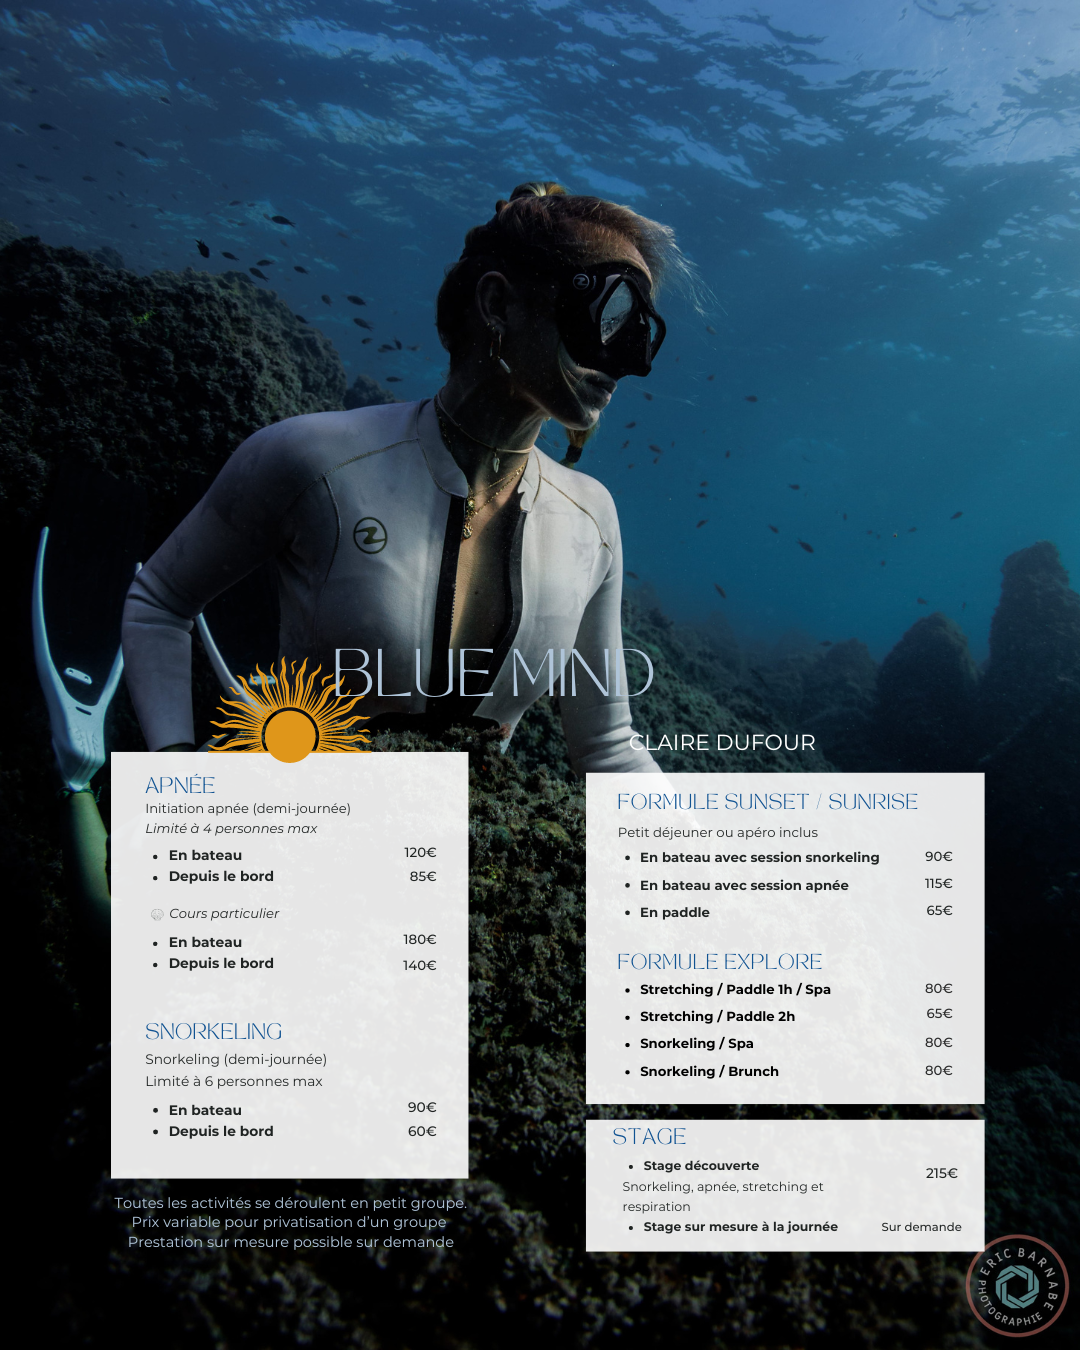
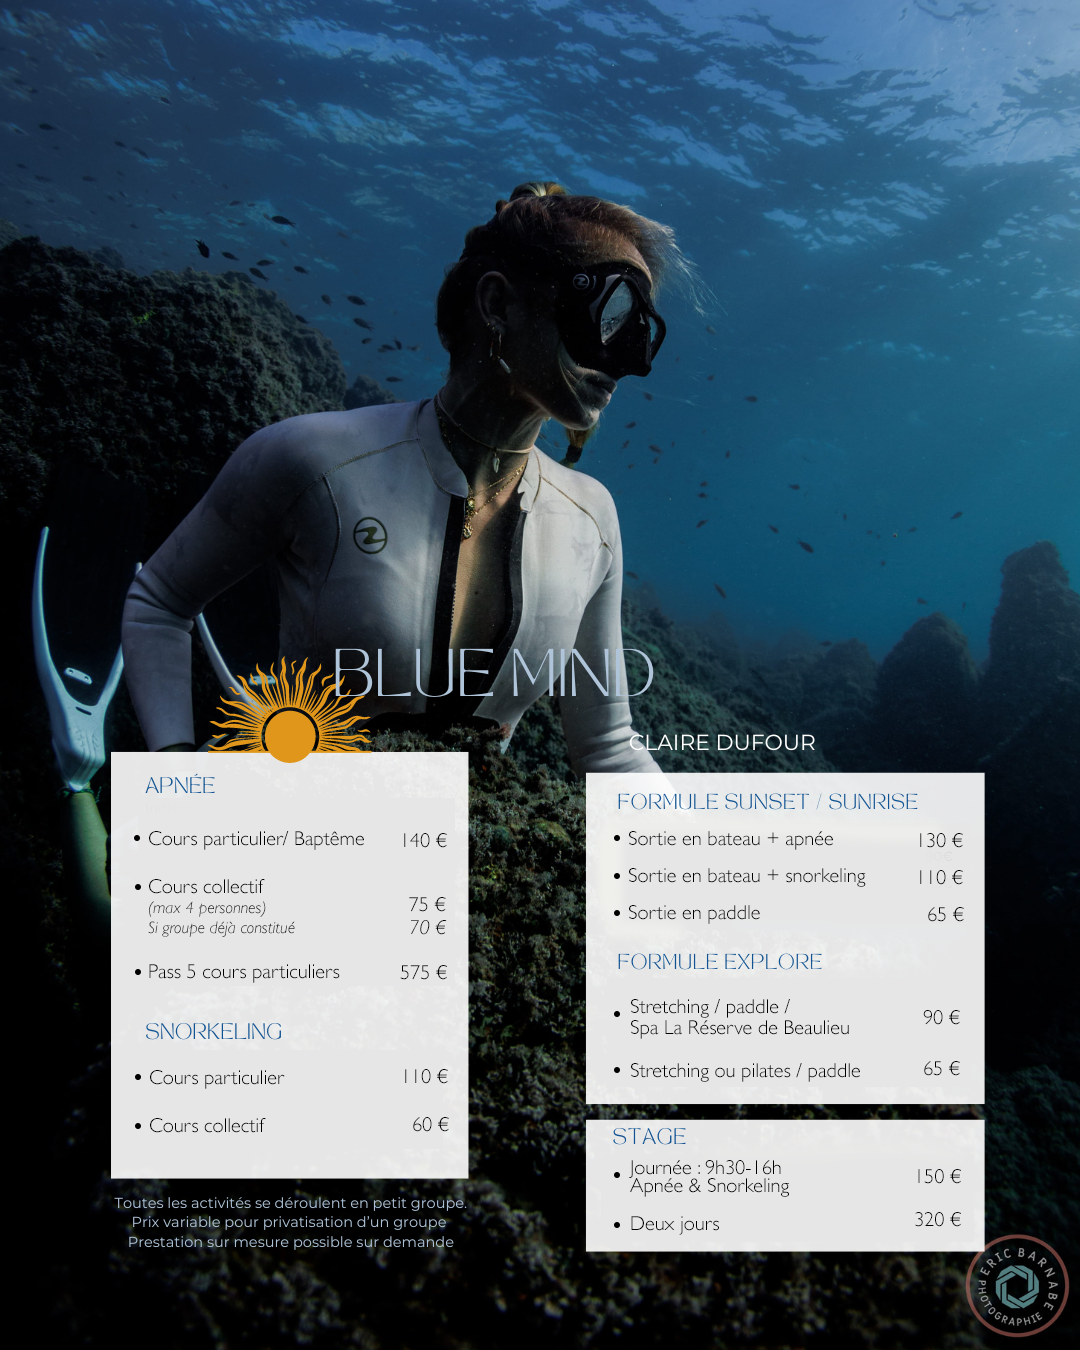
update imgs and retours en tarifs

diff --git a/index.html b/index.html
@@ -35,7 +35,7 @@
 							<li class="active"><a >Blue Mind</a></li>
 							<li><a>À propos</a></li>
 							<li><a>Activités</a></li>
-							<li><a>Retours</a></li>
+							<li><a>Tarifs</a></li>
 							<li><a>Contact</a></li>
 						</ul>
 						<ul class="icons">
@@ -250,87 +250,16 @@ C’est sur la douceur, le calme et la découverte de la vie sous marine qu’el
 			</div>
 			</div>
             </section>
-        `,"Retours": `
-
+        `,"Tarifs": `
 
 				<div class="responsive-container-block big-container">
 		  <div class="responsive-container-block bg">
 		    <p class="text-blk title">
-		      Vos retours comptent!<br><br>
+		      Retrouvez tous nos tarifs ici<br><br>
 		    </p>
-<div class='row'>
-				<div class='colblock'>
-				<div class="responsive-cell-block wk-desk-1 wk-tab-1 wk-mobile-1 wk-ipadp-1 content bottom">
-				<p class="text-blk info-block">
-				Je ne peux que recommander Claire ! <br>C’est une instructrice incroyable qui vous guide en toute sécurité dans l’eau, mais vous permet également de vraiment profiter de votre environnement et d’oublier la vie sur terre. </p>
-				<div class="responsive-container-block person">
-					<div class="responsive-cell-block wk-desk-6 wk-ipadp-6 wk-tab-12 wk-mobile-12 icon-block">
-					</div>
-					<div class="responsive-cell-block wk-desk-6 wk-ipadp-6 wk-tab-12 wk-mobile-12 text-block">
-						<p class="text-blk name">
-							Antonia
-						</p>
-					</div>
-				</div>
-			</div>
-			<div class="responsive-cell-block wk-desk-1 wk-tab-1 wk-mobile-1 wk-ipadp-1 content bottom">
-				<p class="text-blk info-block">
-				Très belle expérience et souvenirs inoubliables avec Claire / Blue Mind, en famille et en amoureux en bateau...<br>
-
-<br>Nage en mer, initiation à l'apnée, séances de relaxation, découverte du monde sous-marin, SPA pour décompresser de nos semaines de travail... 😎<br>
-
-<br>Nous le referons chaque été avec grand plaisir et conseillons cette expérience inoubliable à tous les amoureux de la mer 🌊
-
-</p>
-				<div class="responsive-container-block person">
-					<div class="responsive-cell-block wk-desk-6 wk-ipadp-6 wk-tab-12 wk-mobile-12 icon-block">
-					</div>
-					<div class="responsive-cell-block wk-desk-6 wk-ipadp-6 wk-tab-12 wk-mobile-12 text-block">
-						<p class="text-blk name">
-							Florence et Jean-Michel
-						</p>
-					</div>
-				</div>
-			</div></div>
-			<div class='colblock'>
-			<div class="responsive-cell-block wk-desk-1 wk-tab-1 wk-mobile-1 wk-ipadp-1 content">
-				<p class="text-blk info-block">
-				J’ai eu la chance de participer à une journée d’initiation à l’apnée avec Claire Dufour à Beaulieu, et l’expérience a été tout simplement exceptionnelle. <br><br>Claire allie une pédagogie claire et bienveillante à une profonde passion pour l’apnée, ce qui rend l’apprentissage à la fois accessible et inspirant.
-
-<br>Dès le début, son approche rassurante et sa sympathie ont créé une atmosphère détendue, propice à la découverte et au plaisir. <br>Grâce à ses conseils précis et à son accompagnement attentif, j’ai pu dépasser mes appréhensions et explorer mes capacités avec confiance.
-
-<br><br>Cette journée a été bien plus qu’une simple initiation : c’était une véritable immersion dans un univers où le lâcher-prise et la connexion avec soi-même prennent tout leur sens. <br>Une expérience marquante et enrichissante que je recommande sans hésiter !</p>
-				<div class="responsive-container-block person">
-					<div class="responsive-cell-block wk-desk-6 wk-ipadp-6 wk-tab-12 wk-mobile-12 icon-block">
-					</div>
-					<div class="responsive-cell-block wk-desk-6 wk-ipadp-6 wk-tab-12 wk-mobile-12 text-block">
-						<p class="text-blk name">
-							Joelle
-						</p>
-					</div>
-				</div>
-			</div>
-			</div>
-			<div class='colblock'>
-		      <div class="responsive-cell-block wk-desk-1 wk-tab-1 wk-mobile-1 wk-ipadp-1 content">
-		        <p class="text-blk info-block">
-						Étant de passage sur Cap d’Ail, j’ai découvert les activités proposées par Blue Mind qui allient à la fois le sport, le bien-être, mais surtout notre magnifique Mer Méditerranée ! <br><br>Avec mon compagnon, nous avons testé deux sorties en mer et tout était absolument génial : du petit-déjeuner à la randonnée aquatique, de la découverte du e-foil jusqu’au SPA luxueux de Beaulieu...<br><br>
-
-Rajoutez à cela la sympathie, la bienveillance et surtout le professionnalisme de Claire, qui incarne parfaitement ce concept ! Nous en gardons un excellent souvenir, et nous reviendrons cet été. Merci Claire pour ces belles découvertes ✨</p>
-		        <div class="responsive-container-block person">
-		          <div class="responsive-cell-block wk-desk-6 wk-ipadp-6 wk-tab-12 wk-mobile-12 icon-block">
-		          </div>
-		          <div class="responsive-cell-block wk-desk-6 wk-ipadp-6 wk-tab-12 wk-mobile-12 text-block">
-		            <p class="text-blk name">
-		             Amélie
-		            </p>
-		          </div>
-		        </div>
-
-											<div style="color:transparent;font-size:1px;"> blue mind claire dufour apnée snorkeling snorkelling beaulieu beaulieu-sur-mer beaulieu sur mer outdoor outdoor activities activités outdoor mer spa détente
-												bluemind clairedufour cote d'azur côte azur coteazur eze eze sur mer monaco cap d'ail alpes maritimes </div>
-
-		      </div>
+<div>
+<img src="images/tarifs.png" alt="Blue Mind" style="width:100%; border-radius:10px;">
+</div>
 					</div>
 
 
@@ -375,6 +304,98 @@ Rajoutez à cela la sympathie, la bienveillance et surtout le professionnalisme 
 </div>
 
 
+`,"Retours": `
+
+
+<div class="responsive-container-block big-container">
+<div class="responsive-container-block bg">
+<p class="text-blk title">
+	Vos retours comptent!<br><br>
+</p>
+<div class='row'>
+<div class='colblock'>
+<div class="responsive-cell-block wk-desk-1 wk-tab-1 wk-mobile-1 wk-ipadp-1 content bottom">
+<p class="text-blk info-block">
+Je ne peux que recommander Claire ! <br>C’est une instructrice incroyable qui vous guide en toute sécurité dans l’eau, mais vous permet également de vraiment profiter de votre environnement et d’oublier la vie sur terre. </p>
+<div class="responsive-container-block person">
+	<div class="responsive-cell-block wk-desk-6 wk-ipadp-6 wk-tab-12 wk-mobile-12 icon-block">
+	</div>
+	<div class="responsive-cell-block wk-desk-6 wk-ipadp-6 wk-tab-12 wk-mobile-12 text-block">
+		<p class="text-blk name">
+			Antonia
+		</p>
+	</div>
+</div>
+</div>
+<div class="responsive-cell-block wk-desk-1 wk-tab-1 wk-mobile-1 wk-ipadp-1 content bottom">
+<p class="text-blk info-block">
+Très belle expérience et souvenirs inoubliables avec Claire / Blue Mind, en famille et en amoureux en bateau...<br>
+
+<br>Nage en mer, initiation à l'apnée, séances de relaxation, découverte du monde sous-marin, SPA pour décompresser de nos semaines de travail... 😎<br>
+
+<br>Nous le referons chaque été avec grand plaisir et conseillons cette expérience inoubliable à tous les amoureux de la mer 🌊
+
+</p>
+<div class="responsive-container-block person">
+	<div class="responsive-cell-block wk-desk-6 wk-ipadp-6 wk-tab-12 wk-mobile-12 icon-block">
+	</div>
+	<div class="responsive-cell-block wk-desk-6 wk-ipadp-6 wk-tab-12 wk-mobile-12 text-block">
+		<p class="text-blk name">
+			Florence et Jean-Michel
+		</p>
+	</div>
+</div>
+</div></div>
+<div class='colblock'>
+<div class="responsive-cell-block wk-desk-1 wk-tab-1 wk-mobile-1 wk-ipadp-1 content">
+<p class="text-blk info-block">
+J’ai eu la chance de participer à une journée d’initiation à l’apnée avec Claire Dufour à Beaulieu, et l’expérience a été tout simplement exceptionnelle. <br><br>Claire allie une pédagogie claire et bienveillante à une profonde passion pour l’apnée, ce qui rend l’apprentissage à la fois accessible et inspirant.
+
+<br>Dès le début, son approche rassurante et sa sympathie ont créé une atmosphère détendue, propice à la découverte et au plaisir. <br>Grâce à ses conseils précis et à son accompagnement attentif, j’ai pu dépasser mes appréhensions et explorer mes capacités avec confiance.
+
+<br><br>Cette journée a été bien plus qu’une simple initiation : c’était une véritable immersion dans un univers où le lâcher-prise et la connexion avec soi-même prennent tout leur sens. <br>Une expérience marquante et enrichissante que je recommande sans hésiter !</p>
+<div class="responsive-container-block person">
+	<div class="responsive-cell-block wk-desk-6 wk-ipadp-6 wk-tab-12 wk-mobile-12 icon-block">
+	</div>
+	<div class="responsive-cell-block wk-desk-6 wk-ipadp-6 wk-tab-12 wk-mobile-12 text-block">
+		<p class="text-blk name">
+			Joelle
+		</p>
+	</div>
+</div>
+</div>
+</div>
+<div class='colblock'>
+	<div class="responsive-cell-block wk-desk-1 wk-tab-1 wk-mobile-1 wk-ipadp-1 content">
+		<p class="text-blk info-block">
+		Étant de passage sur Cap d’Ail, j’ai découvert les activités proposées par Blue Mind qui allient à la fois le sport, le bien-être, mais surtout notre magnifique Mer Méditerranée ! <br><br>Avec mon compagnon, nous avons testé deux sorties en mer et tout était absolument génial : du petit-déjeuner à la randonnée aquatique, de la découverte du e-foil jusqu’au SPA luxueux de Beaulieu...<br><br>
+
+Rajoutez à cela la sympathie, la bienveillance et surtout le professionnalisme de Claire, qui incarne parfaitement ce concept ! Nous en gardons un excellent souvenir, et nous reviendrons cet été. Merci Claire pour ces belles découvertes ✨</p>
+		<div class="responsive-container-block person">
+			<div class="responsive-cell-block wk-desk-6 wk-ipadp-6 wk-tab-12 wk-mobile-12 icon-block">
+			</div>
+			<div class="responsive-cell-block wk-desk-6 wk-ipadp-6 wk-tab-12 wk-mobile-12 text-block">
+				<p class="text-blk name">
+				 Amélie
+				</p>
+			</div>
+		</div>
+
+							<div style="color:transparent;font-size:1px;"> blue mind claire dufour apnée snorkeling snorkelling beaulieu beaulieu-sur-mer beaulieu sur mer outdoor outdoor activities activités outdoor mer spa détente
+								bluemind clairedufour cote d'azur côte azur coteazur eze eze sur mer monaco cap d'ail alpes maritimes </div>
+
+	</div>
+	</div>
+
+
+
+</div>
+</div>
+
+			<div style="color:transparent;font-size:1px;"> blue mind claire dufour apnée snorkeling snorkelling beaulieu beaulieu-sur-mer beaulieu sur mer outdoor outdoor activities activités outdoor mer spa détente
+				bluemind clairedufour cote d'azur côte azur coteazur eze eze sur mer monaco cap d'ail alpes maritimes </div>
+
+</section>
 `
 
     };
